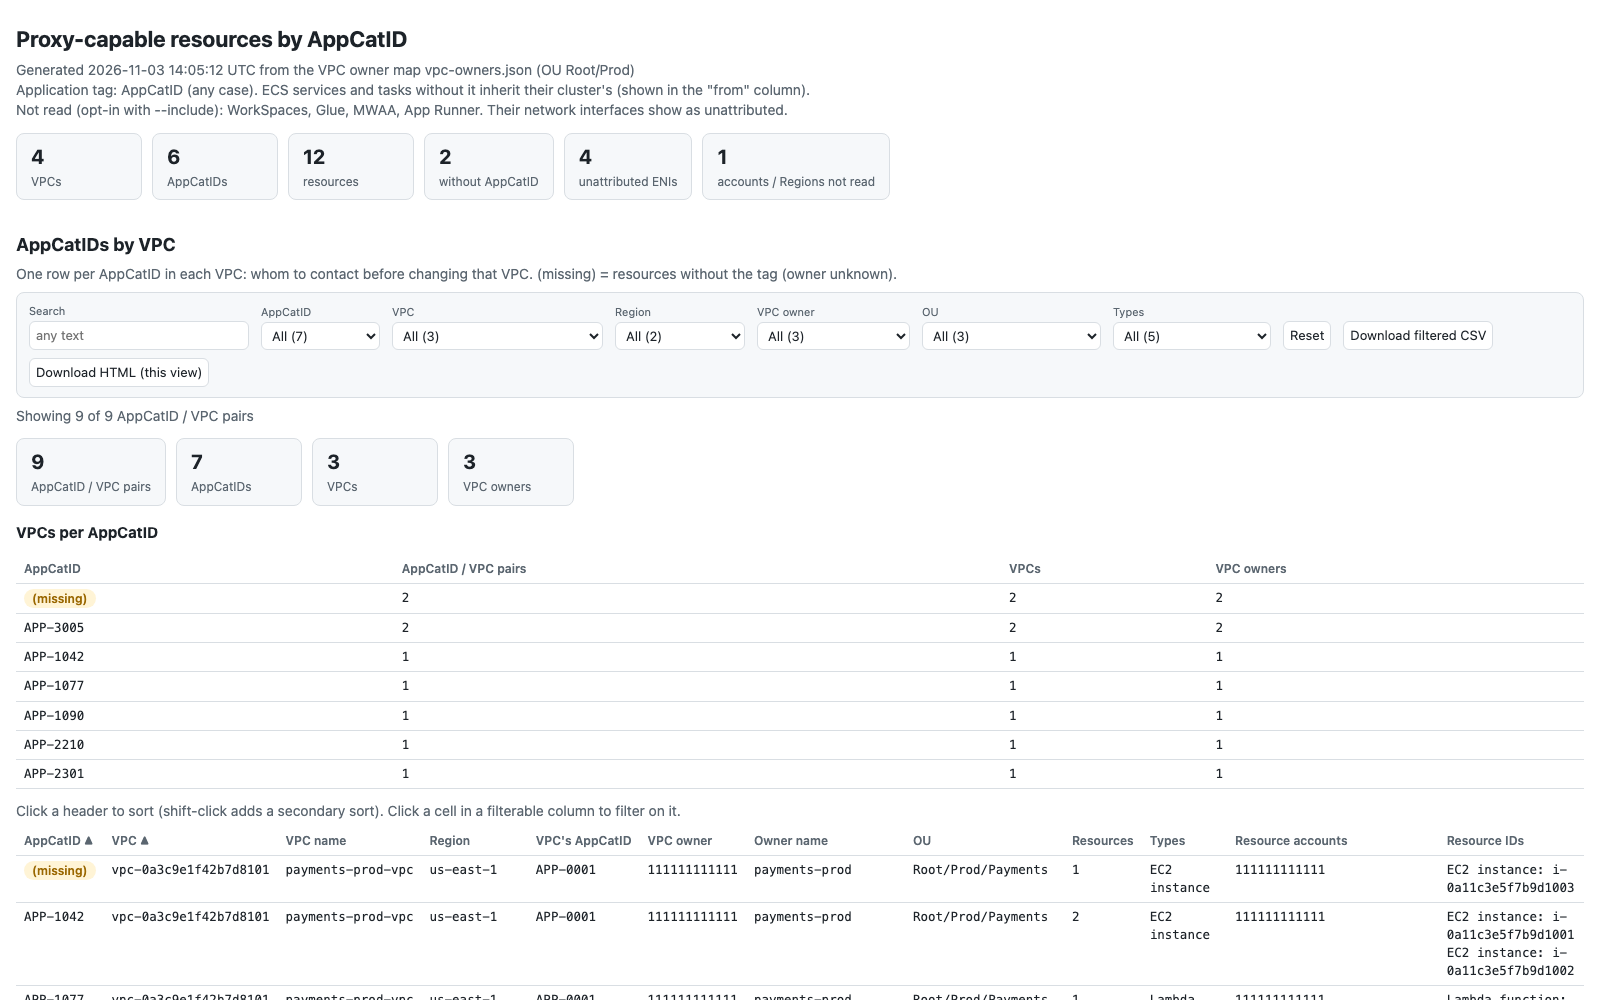
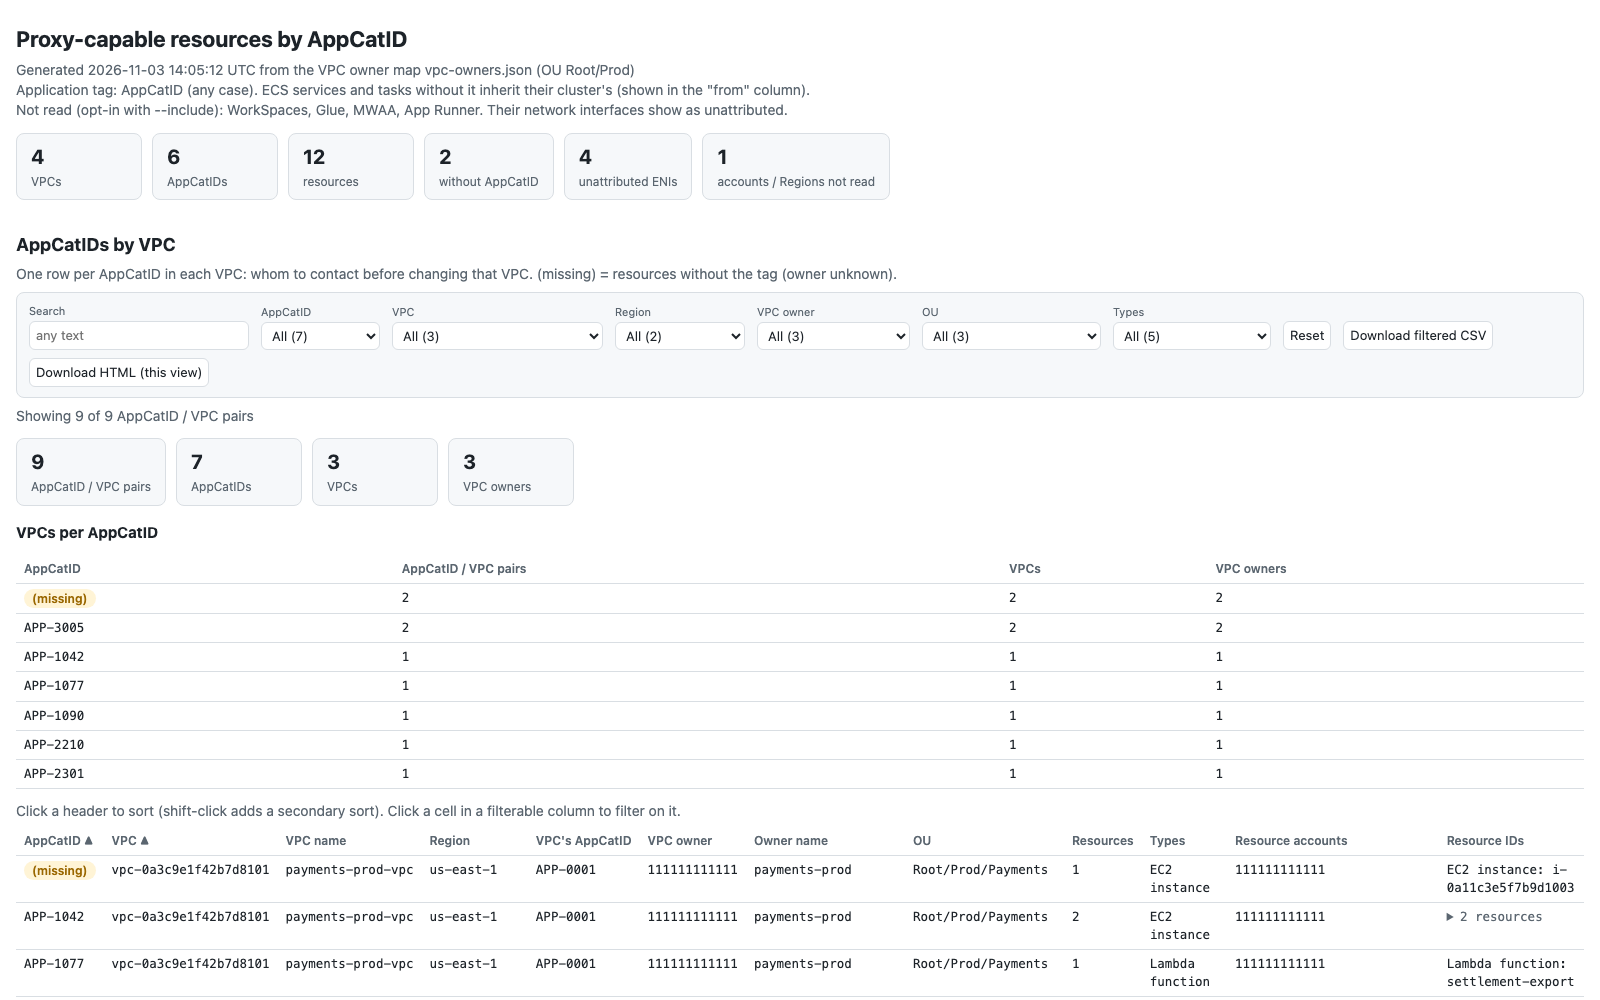
proxy_inventory: fold the Resource IDs cell by default
In the AppCatIDs by VPC table, a Resource IDs cell with more than one ID
starts collapsed as "N resources"; click to open. Search still matches
the folded IDs. New table spec key "fold" in pi_html; screenshots
regenerated.

Changed region(s): [[0.0, 0.899, 1.0, 1.0]]

diff --git a/tools/proxy_inventory/pi_html.py b/tools/proxy_inventory/pi_html.py
@@ -30,6 +30,7 @@ Table spec (dict):
   uniq      [[key, label], ...] columns to count unique values of
   wrap      keys whose text wraps (others stay on one line)
   lines     keys whose list values show one item per line (default: comma-separated)
+  fold      {key: noun}: list values of more than one item start collapsed as "N <noun>" (click to open)
   badges    {key: {value: css class}}; classes: error, warn, info, ok
   order     {key: [values in sort order]} (e.g. severity)
   sort      initial sort, [[key, 1 | -1], ...]
@@ -82,6 +83,7 @@ td.nw { white-space:nowrap; } td.f { cursor:pointer; } td.f:hover { text-decorat
 .info { color:var(--info); background:var(--info-bg); } .ok { color:var(--ok); background:var(--ok-bg); }
 details.fold > summary { cursor:pointer; margin:32px 0 6px; } details.fold > summary h2 { display:inline; margin:0; }
 details.fold > summary span { margin-left:8px; }
+details.cell > summary { cursor:pointer; color:var(--muted); }
 </style></head><body>
 <div id="app"></div>
 <script id="data" type="application/json">__DATA__</script>
@@ -129,7 +131,7 @@ function makeTable(t) {
   app.appendChild(sec);
   const LABEL = Object.fromEntries(t.columns.concat(t.labels || []));
   const filters = t.filters || [], wrap = t.wrap || [], badges = t.badges || {}, order = t.order || {};
-  const lines = t.lines || [];
+  const lines = t.lines || [], fold = t.fold || {};
   const hide = t.hide, P = t.id + ".";
   const st = {q: "", show: false, f: {}, sort: (t.sort || []).map(x => [...x])};
   filters.forEach(k => { if (H.get(P + k)) st.f[k] = H.get(P + k); });
@@ -196,8 +198,10 @@ function makeTable(t) {
   const cell = (k, v) => {
     const vs = vals(v), f = filters.includes(k) && vs.length === 1;
     const cls = [wrap.includes(k) ? "" : "nw", f ? "f" : ""].filter(Boolean).join(" ");
+    const body = Array.isArray(v) ? v.map(x => badge(k, String(x))).join(lines.includes(k) ? "<br>" : ", ") : badge(k, txt(v));
     return `<td class="${cls}"${f ? ` data-k="${esc(k)}" data-v="${esc(vs[0])}"` : ""}>` +
-      (Array.isArray(v) ? v.map(x => badge(k, String(x))).join(lines.includes(k) ? "<br>" : ", ") : badge(k, txt(v))) + `</td>`;
+      (fold[k] && Array.isArray(v) && v.length > 1
+        ? `<details class="cell"><summary>${v.length} ${esc(fold[k])}</summary>${body}</details>` : body) + `</td>`;
   };
   function render() {
     saveHash();

diff --git a/tools/proxy_inventory/proxy_inventory.py b/tools/proxy_inventory/proxy_inventory.py
@@ -196,7 +196,7 @@ def render_report(rows: dict[str, list[dict]], *, title: str, key_tag: str, meta
                      ["resource_ids", "Resource IDs"]],
          "rows": apps, "filters": ["appcatid", "vpc_id", "region", "vpc_owner", "ou_path", "types"],
          "uniq": [["appcatid", f"{key_tag}s"], ["vpc_id", "VPCs"], ["vpc_owner", "VPC owners"]],
-         "lines": ["resource_ids"], "wrap": ["resource_ids", "types"], "badges": badge,
+         "lines": ["resource_ids"], "fold": {"resource_ids": "resources"}, "wrap": ["resource_ids", "types"], "badges": badge,
          "sort": [["vpc_id", 1], ["appcatid", 1]],
          "by": {"key": "appcatid", "label": f"VPCs per {key_tag}", "badge": None}},
         {"id": "res", "title": "Resources", "row_label": "resources",

diff --git a/tools/proxy_inventory/README.md b/tools/proxy_inventory/README.md
@@ -109,7 +109,7 @@ The report has these tables:
 
 | Table | Contents |
 |---|---|
-| **AppCatIDs by VPC** | One row per AppCatID per VPC: resource count, types, accounts and IDs. Shows whom to contact before changing a VPC. `(missing)` gathers the resources without the tag. A summary lists the VPCs per AppCatID |
+| **AppCatIDs by VPC** | One row per AppCatID per VPC: resource count, types, accounts and IDs (folded to "N resources" when there are several; click to open). Shows whom to contact before changing a VPC. `(missing)` gathers the resources without the tag. A summary lists the VPCs per AppCatID |
 | **Resources** | Every resource: AppCatID and where it came from, type, ID, name, state, account, VPC, subnets, private IPs, details and **all tags**. A tag-key filter finds resources carrying a given tag |
 | **VPCs read** | Every selected VPC: the VPC's own AppCatID tag, resource count, AppCatIDs, unattributed interfaces, and `gone` for VPCs no longer in AWS |
 | **Unattributed network interfaces** | See above |
